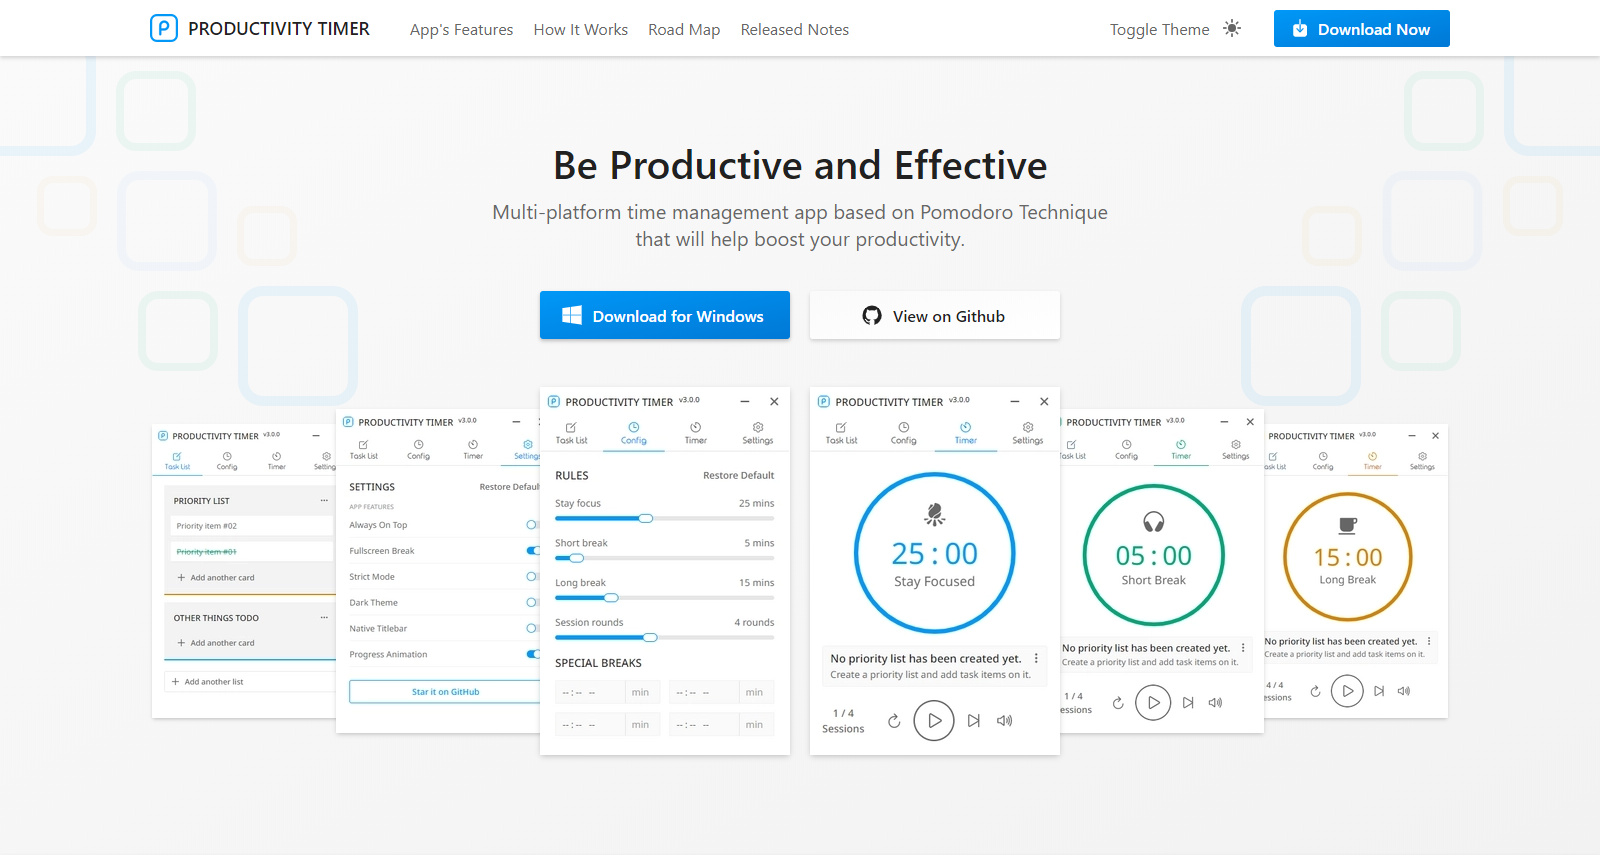
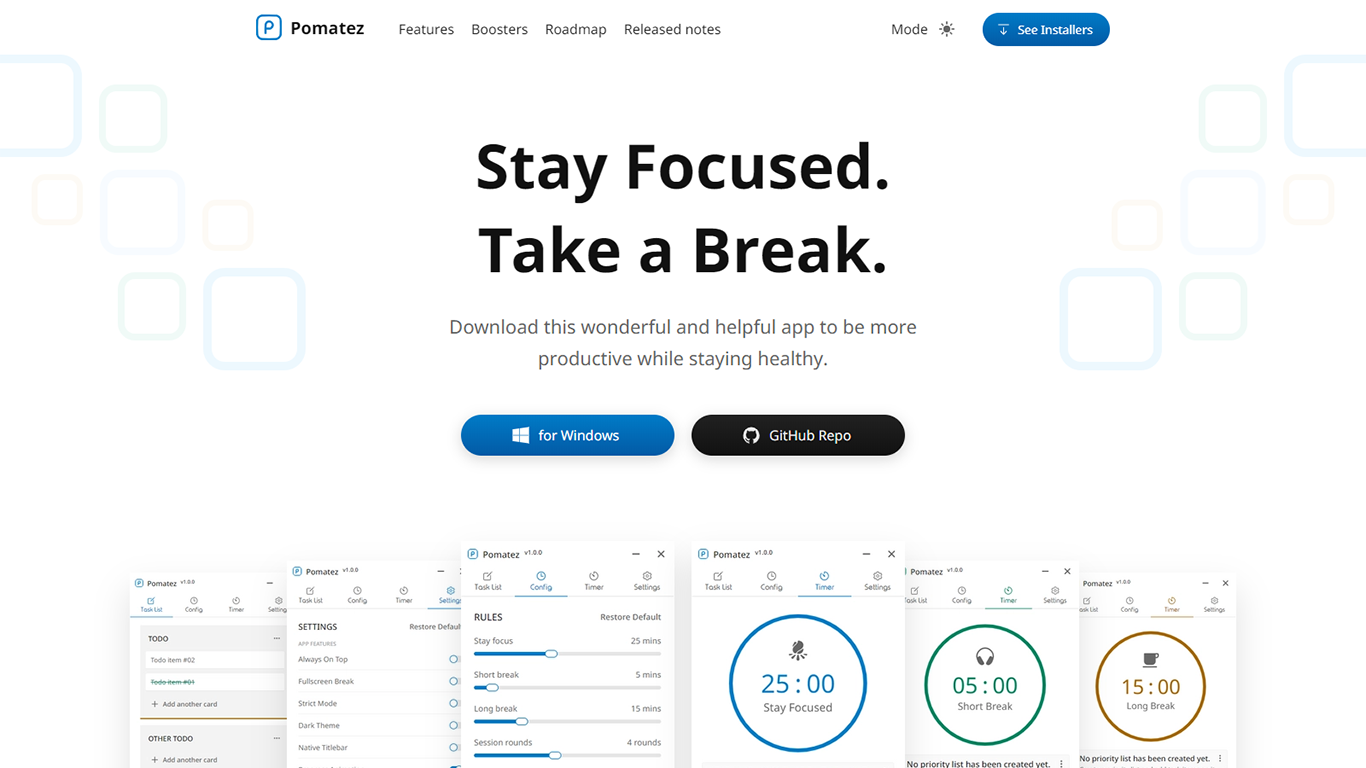
update: social preview images

diff --git a/src/components/PageHead.tsx b/src/components/PageHead.tsx
@@ -170,7 +170,6 @@ export const PageHead: React.FC<Props> = ({
 		applicationCategory: "LifestyleApplication",
 		downloadUrl: "https://github.com/roldanjr/pomatez/releases",
 		operatingSystem: "Windows, Linux, macOS",
-		screenshot: site.siteMetadata.siteUrl + socialPreviewLight.src,
 		softwareVersion: APP_VERSION,
 	};
 

diff --git a/README.md b/README.md
@@ -1,12 +1,8 @@
-# Simple website for Pomatez app.
-
-[![pomatez](https://snapcraft.io//pomatez/badge.svg)](https://snapcraft.io/pomatez)
-[![Build Status](https://travis-ci.com/roldanjr/pomatez.svg?branch=master)](https://travis-ci.com/roldanjr/pomatez)
-[![Total Downloads](https://img.shields.io/github/downloads/roldanjr/pomatez/total)](https://github.com/roldanjr/pomatez/releases)
-[![Version](https://img.shields.io/github/v/release/roldanjr/pomatez)](https://github.com/roldanjr/pomatez/releases)
-[![License](https://img.shields.io/github/license/roldanjr/pomatez)](https://github.com/roldanjr/pomatez/blob/master/LICENSE)
+# Pomatez website
 
 ![Preview Light](src/assets/images/preview-light.png)
+
+![Preview Dark](src/assets/images/preview-dark.png)
 
 ## 🛠 Installation & Set Up
 
@@ -25,13 +21,13 @@
 3. Install dependencies
 
    ```sh
-   yarn
+   yarn install or npm install
    ```
 
 4. Start the development server
 
    ```sh
-   npm start
+   yarn dev or npm run dev
    ```
 
 ## 🚀 Building and Running for Production
@@ -39,13 +35,13 @@
 1. Generate a full static production build
 
    ```sh
-   npm run build
+   yarn build or npm run build
    ```
 
 1. Preview the site as it will appear once deployed
 
    ```sh
-   npm run serve
+   yarn serve or npm run serve
    ```
 
 ## License
